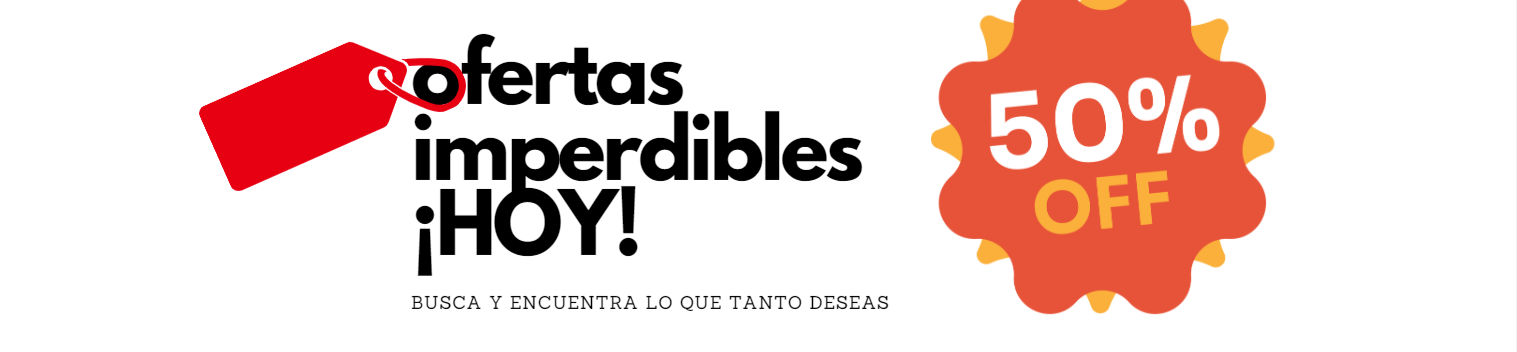
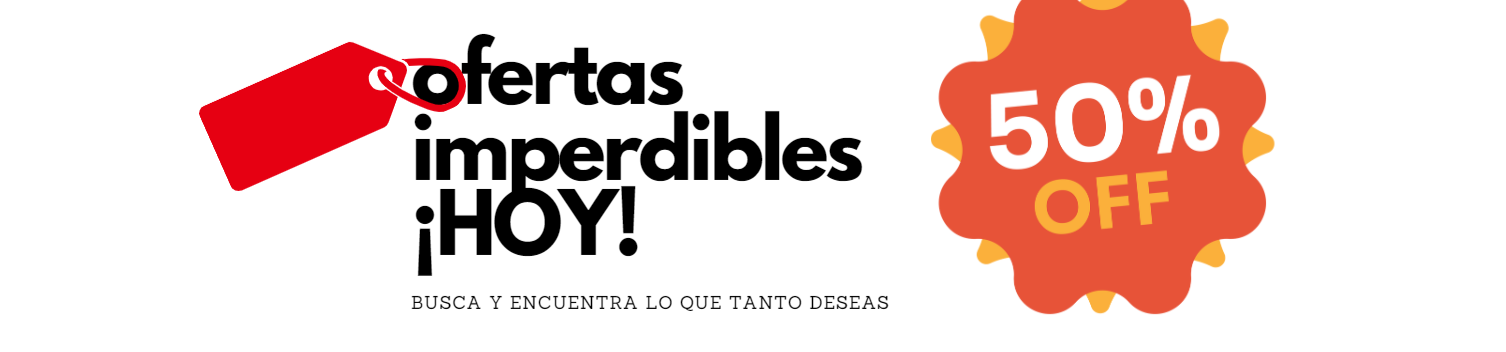
modified html: companies, products and home

diff --git a/frontend/src/app/componentes/carousel/carousel.component.html b/frontend/src/app/componentes/carousel/carousel.component.html
@@ -1,79 +1,1 @@
-  <!-- Carousel indicators -->
-  <div class="absolute bottom-0 left-0 right-0 z-[2] mx-[15%] mb-4 flex list-none justify-center p-0"
-    data-twe-carousel-indicators>
-    <button type="button" data-twe-target="#carouselExampleCaptions" data-twe-slide-to="0" data-twe-carousel-active
-      class="mx-[3px] box-content h-[3px] w-[30px] flex-initial cursor-pointer border-0 border-y-[10px] border-solid border-transparent bg-white bg-clip-padding p-0 -indent-[999px] opacity-50 transition-opacity duration-[600ms] ease-[cubic-bezier(0.25,0.1,0.25,1.0)] motion-reduce:transition-none"
-      aria-current="true" aria-label="Slide 1"></button>
-    <button type="button" data-twe-target="#carouselExampleCaptions" data-twe-slide-to="1"
-      class="mx-[3px] box-content h-[3px] w-[30px] flex-initial cursor-pointer border-0 border-y-[10px] border-solid border-transparent bg-white bg-clip-padding p-0 -indent-[999px] opacity-50 transition-opacity duration-[600ms] ease-[cubic-bezier(0.25,0.1,0.25,1.0)] motion-reduce:transition-none"
-      aria-label="Slide 2"></button>
-    <button type="button" data-twe-target="#carouselExampleCaptions" data-twe-slide-to="2"
-      class="mx-[3px] box-content h-[3px] w-[30px] flex-initial cursor-pointer border-0 border-y-[10px] border-solid border-transparent bg-white bg-clip-padding p-0 -indent-[999px] opacity-50 transition-opacity duration-[600ms] ease-[cubic-bezier(0.25,0.1,0.25,1.0)] motion-reduce:transition-none"
-      aria-label="Slide 3"></button>
-  </div>
-
-  <!--Carousel items-->
-  <div class="relative w-full overflow-hidden after:clear-both after:block after:content-['']">
-    <!--First item-->
-    <div
-      class="relative float-left -mr-[100%] w-full transition-transform duration-[600ms] ease-in-out motion-reduce:transition-none"
-      data-twe-carousel-active data-twe-carousel-item style="backface-visibility: hidden">
-      <img src="../../../assets/img/carrusel1.png" class="block w-full" alt="..." />
-      <div class="absolute inset-x-[15%] bottom-5 hidden py-5 text-center text-white md:block">
-        <!-- <p>
-          Some representative placeholder content for the first slide.
-        </p> -->
-      </div>
-    </div>
-    <!--Second item-->
-    <div
-      class="relative float-left -mr-[100%] hidden w-full transition-transform duration-[600ms] ease-in-out motion-reduce:transition-none"
-      data-twe-carousel-item style="backface-visibility: hidden">
-      <img src="../../../assets/img/logoAzul.png" class="block w-full" alt="..." />
-      <div class="absolute inset-x-[15%] bottom-5 hidden py-5 text-center text-white md:block">
-        <h5 class="text-xl">Second slide label</h5>
-        <p>
-          Some representative placeholder content for the second slide.
-        </p>
-      </div>
-    </div>
-    <!--Third item-->
-    <div
-      class="relative float-left -mr-[100%] hidden w-full transition-transform duration-[600ms] ease-in-out motion-reduce:transition-none"
-      data-twe-carousel-item style="backface-visibility: hidden">
-      <img src="https://tecdn.b-cdn.net/img/Photos/Slides/img%20(23).jpg" class="block w-full" alt="..." />
-      <div class="absolute inset-x-[15%] bottom-5 hidden py-5 text-center text-white md:block">
-        <h5 class="text-xl">Third slide label</h5>
-        <p>
-          Some representative placeholder content for the third slide.
-        </p>
-      </div>
-    </div>
-  </div>
-
-  <!--Carousel controls - prev item-->
-  <button
-    class="absolute bottom-0 left-0 top-0 z-[1] flex w-[15%] items-center justify-center border-0 bg-none p-0 text-center text-white opacity-50 transition-opacity duration-150 ease-[cubic-bezier(0.25,0.1,0.25,1.0)] hover:text-white hover:no-underline hover:opacity-90 hover:outline-none focus:text-white focus:no-underline focus:opacity-90 focus:outline-none motion-reduce:transition-none"
-    type="button" data-twe-target="#carouselExampleCaptions" data-twe-slide="prev">
-    <span class="inline-block h-8 w-8">
-      <svg xmlns="http://www.w3.org/2000/svg" fill="none" viewBox="0 0 24 24" stroke-width="1.5" stroke="currentColor"
-        class="h-6 w-6">
-        <path stroke-linecap="round" stroke-linejoin="round" d="M15.75 19.5L8.25 12l7.5-7.5" />
-      </svg>
-    </span>
-    <span
-      class="!absolute !-m-px !h-px !w-px !overflow-hidden !whitespace-nowrap !border-0 !p-0 ![clip:rect(0,0,0,0)]">Previous</span>
-  </button>
-  <!--Carousel controls - next item-->
-  <!-- <button
-    class="absolute bottom-0 right-0 top-0 z-[1] flex w-[15%] items-center justify-center border-0 bg-none p-0 text-center text-white opacity-50 transition-opacity duration-150 ease-[cubic-bezier(0.25,0.1,0.25,1.0)] hover:text-white hover:no-underline hover:opacity-90 hover:outline-none focus:text-white focus:no-underline focus:opacity-90 focus:outline-none motion-reduce:transition-none"
-    type="button" data-twe-target="#carouselExampleCaptions" data-twe-slide="next">
-    <span class="inline-block h-8 w-8">
-      <svg xmlns="http://www.w3.org/2000/svg" fill="none" viewBox="0 0 24 24" stroke-width="1.5" stroke="currentColor"
-        class="h-6 w-6">
-        <path stroke-linecap="round" stroke-linejoin="round" d="M8.25 4.5l7.5 7.5-7.5 7.5" />
-      </svg>
-    </span>
-    <span
-      class="!absolute !-m-px !h-px !w-px !overflow-hidden !whitespace-nowrap !border-0 !p-0 ![clip:rect(0,0,0,0)]">Next</span>
-  </button> -->
+<img class="w-full h-auto object-contain  bg-white" src="../../../assets/img/carrusel1.png" alt="">

diff --git a/frontend/src/app/componentes/header/header.component.html b/frontend/src/app/componentes/header/header.component.html
@@ -1,41 +1,50 @@
-<div class="relative w-full">
-  <div *ngIf="headerService.isShowing()| async" class="w-full h-12 flex justify-around items-center">
+<div class="relative w-full px-4">
+  <div *ngIf="headerService.isShowing()| async" class="w-full h-12 flex justify-evenly items-center">
     <div class="flex relative items-center">
       <img (click)="headerService.goBack()" [@showArrow]="show? 'show' : 'hide' " class="size-6 absolute -ml-1"
         src="../../../assets/icons/left-arrow-svgrepo-com.svg" alt="">
       <a href="/">
-        <img [@canGoBack]="itCan? 'can' : 'cant' " class="icon" src="../../../assets/icons/android-chrome-192x192.png"
+        <img [@canGoBack]="itCan? 'can' : 'cant' " class="icon object-contain size-10" src="../../../assets/icons/android-chrome-192x192.png"
           alt="">
       </a>
     </div>
-      <!-- SEARCH -->
-    <div class="inputWrapper relative w-3/5 flex items-center ">
-      <input class="bg-slate-200 h-2/3 w-full border rounded-2xl p-2 text-sm overflow-auto" id="inputHeader"
-        type="search" placeholder="Busca productos, tiendas y más..." (input)="actualizarFiltro($event)">
+    
+    <!-- SEARCH -->
+    <div class="inputWrapper relative w-3/6 2xl:w-4/6 flex items-center ">
+      <input class="bg-slate-200 w-full border-2 rounded-2xl py-2 px-4 ml-2 text-sm overflow-auto outline-none border-blue-500" id="inputHeader"
+      type="search" placeholder="Buscar" (input)="actualizarFiltro($event)">
     </div>
-          <!-- product link -->
-      <a class="mx-4" href="products">Productos</a>
-    <!-- BOTONES DE LOGIN -->
-    <div *ngIf="!(auth.isLoggedIn() | async)" class="hidden sm:block flex justify-around" id="signup_signin">
-      <a class="mx-4" href="login">Inicio de sesion</a>
-      <a class="mx-4" href="signin">Registro</a>
+    
+    <div class="anclas py-3 flex flex-row items-center justify-end md:justify-around w-full max-md:w-3/6 lg:w-2/6">
+      
+      <!-- product link -->
+      <div class="sections flex flex-row items-center justify-around w-5/6 md:w-2/4 md:ml-2">
+        <a class="hover:scale-110 ease-in-out duration-150" href="products">Productos</a>
+        <p class="text-xl pt-2 text-blue-500 max-sm:mx-3">|</p>
+        <a class="hover:scale-110 ease-in-out duration-150" href="companies">Emprendedores</a>
+      </div>
+      <!-- BOTONES DE LOGIN -->
+      <div *ngIf="!(auth.isLoggedIn() | async)" class="max-sm:hidden sm:block flex  max-md:w4/6 items-center " id="signup_signin">
+        <a class="mx-2 lg:mx-10 border py-2 px-1 rounded-md bg-blue-500 hover:bg-blue-950 text-white hover:scale-105 ease-in-out duration-150" href="login">Inicia sesion</a>
+        <a class="hover:scale-105 ease-in-out duration-150" href="signin">Registro</a>
+      </div>
     </div>
-
+      
     <!-- USER PROFILE -->
     <div *ngIf="(auth.isLoggedIn() | async) && (auth.isClient() | async)" class="hidden sm:block flex justify-around" id="signup_signin">
-      <button class="blankButton" (click)="navigateToUserProfile()">Perfil</button>
+      <button class="blankButton hover:scale-105 ease-in-out duration-150" (click)="navigateToUserProfile()">Perfil</button>
     </div>
     
     <div *ngIf="(auth.isLoggedIn() | async) && (auth.isCompany() | async)  && !isPerfilCompanyComponent()" class="hidden sm:block flex justify-around" id="signup_signin">
-      <button class="blankButton" (click)="navigateToCompanyProfile()">Perfil</button>
+      <button class="blankButton hover:scale-105 ease-in-out duration-150" (click)="navigateToCompanyProfile()">Perfil</button>
     </div>
     <div *ngIf="(auth.isLoggedIn() | async) && (auth.isCompany() | async)  && isPerfilCompanyComponent()" class="hidden sm:block flex justify-around" id="signup_signin">
-      <button class="blankButton" (click)="navigateToCompanyHome()">Principal</button>
+      <button class="blankButton hover:scale-105 ease-in-out duration-150" (click)="navigateToCompanyHome()">Principal</button>
     </div>
     
     <!-- SING OUT BUTTON -->
     <div *ngIf="(auth.isLoggedIn() | async)" class="hidden sm:block flex justify-around" id="signup_signin">
-      <button class="blankButton" *ngIf="auth.isLoggedIn()|async"  (click)="auth.logout()">salir</button>
+      <button class="blankButton hover:scale-105 ease-in-out duration-150" *ngIf="auth.isLoggedIn()|async"  (click)="auth.logout()">salir</button>
 
     
     </div>

diff --git a/frontend/src/app/componentes/detalle-company/detalle-company.component.html b/frontend/src/app/componentes/detalle-company/detalle-company.component.html
@@ -1,33 +1,45 @@
-<div class="h-full w-full">
-    <div *ngIf="company && user" class="infoUser w-full h-72 my-4 bg-[#d2d2d2] flex items-start flex-row md:text-center">
-        <div class="justify-center w-2/5 h-full p-2 flex items-center flex-row  bg-white">
-            <div class="flex flex-col w-3/5 h-full items-center justify-evenly">
-                <app-foto-de-perfil [user]="user"></app-foto-de-perfil>
-                <div class="flex justify-center">
-                    <!-- Redes sociales -->
-                    <a class="btn btn-floating m-1 text-black" href="#!" role="button"><i
-                            class="bi bi-instagram text-black text-2xl"></i></a>
-                    <a class="btn btn-floating m-1 text-black" href="#!" role="button"><i
-                            class="bi bi-twitter text-black text-2xl"></i></a>
-                    <a class="btn btn-floating m-1 text-black" href="#!" role="button"><i
-                            class="bi bi-whatsapp text-black text-2xl"></i></a>
+<div class="h-full w-full overflow-hidden">
+    <div *ngIf="company && user"
+        class="infoUser w-auto h-auto my-4 bg-[#d2d2d2] flex items-start flex-col md:text-center">
+
+        <div class="father flex flex-col lg:flex-row h-96">
+
+            <div
+                class=" w-full lg:w-2/5 h-full p-2 flex items-center justify-around flex-col lg:flex-row bg-white shadow-sm">
+                <!-- top -->
+                <div class="flex flex-col w-full lg:w-2/6 h-full items-center justify-evenly">
+
+                    <app-foto-de-perfil [user]="user"></app-foto-de-perfil>
+                    <!-- nameVenture -->
+                    <h1 class="text-center justify-center my-3 text-black">{{company.nameEmprendimiento}}</h1>
+                    <!-- socialMedia -->
+                    <div class="flex justify-center">
+                        <a class="btn btn-floating m-1 text-black" href="#!" role="button"><i
+                                class="bi bi-instagram text-black text-2xl"></i></a>
+                        <a class="btn btn-floating m-1 text-black" href="#!" role="button"><i
+                                class="bi bi-twitter text-black text-2xl"></i></a>
+                        <a class="btn btn-floating m-1 text-black" href="#!" role="button"><i
+                                class="bi bi-whatsapp text-black text-2xl"></i></a>
+                    </div>
                 </div>
-            </div>
-            <div class="flex flex-col w-full px-4 h-full justify-evenly">
-                <h1 class="text-center flex items-center justify-center m-0 text-black">{{company.nameEmprendimiento}}</h1>
-                <div class="description d-flex justify-center text-center flex-col items-center text-black">
-                    <h3 class="font-bold"></h3>
-                    <p class="w-full">{{company.description}}</p>
+
+                <!-- description -->
+                <div class="description w-4/6 text-center lg:w-3/6 flex-col items-center text-black my-2">
+                    <p class="w-full text-lg">{{company.description}}</p>
                 </div>
+
             </div>
-        </div>
-        <div class="w-3/5 h-full">
-            <app-loading-image class="" [src]="company.img" [srcPreload]="'https://fakeimg.pl/251x251?text=+'"
-                [srcError]="'../../../assets/img/logoBlanco.png'" [rounded]="'object-contain brightness-50'">
-            </app-loading-image>
+            <!-- banner -->
+            <div class="w-full h-full lg:w-4/6 flex items-center justify-center border-dotted">
+                <app-loading-image class="" [src]="company.img" [srcPreload]="'https://fakeimg.pl/251x251?text=+'"
+                    [srcError]="'../../../assets/img/logoBlanco.png'"
+                    [rounded]="'object-center object-cover  brightness-50'">
+                </app-loading-image>
+            </div>
         </div>
     </div>
 
+    <!-- productsSection -->
     <div class="productos w-full h-auto overflow-x-visible lg:flex flex-wrap justify-evenly">
 
         <div class="w-full px-2 my-2 flex flex-wrap gap-4 md:w-2/4 lg:w-1/4" *ngFor="let product of listProducts">

diff --git a/frontend/src/app/componentes/companies/companies.component.html b/frontend/src/app/componentes/companies/companies.component.html
@@ -1,24 +1,30 @@
-<div class="w-full h-full flex flex-wrap gap-4 justify-evenly">
-    <div class="companies size-48 z-0  py-4 flex flex-wrap flex-col" *ngFor="let company of filteredCompanies">
-        <div (click)="onClickCompany(company.email)" class="img-wrapper z-0  size-48 relative cursor-pointer z-5 companyPanel  rounded-lg   bg-gray-100 flex flex-col ">
-            <div
-                class="imageContainer z-0 rounded-t-lg bottom-10 overflow-hidden z-2 flex items-center justify-center size-48">
-                <div class="imgg size-48     z-0">
-                    <app-loading-image class="image h-full" [src]="company.User.profile_image"
-                        [srcPreload]="'../../../assets/img/251x251.png'"
-                        [srcError]="'../../../assets/img/user_image_holder.jpeg'"
-                        [rounded]="'object-cover rounded-t-lg'">
-                    </app-loading-image>
+<div class="container flex items-center justify-center w-full">
+
+    <div
+        class="w-full h-full grid grid-cols-2 md:grid-cols-3 lg:grid-cols-4 md:px-5 gap-3 md:gap-7 lg:w-5/6">
+        <div class="companies size-48 z-0  py-4 flex flex-wrap flex-col" *ngFor="let company of filteredCompanies">
+
+            <div (click)="onClickCompany(company.email)"
+                class="img-wrapper z-0  size-48 relative cursor-pointer z-5 companyPanel  rounded-lg   bg-gray-100 flex flex-col ">
+                <div
+                    class="imageContainer z-0 rounded-t-lg bottom-10 overflow-hidden z-2 flex items-center justify-center size-48">
+                    <div class="imgg size-48 z-0">
+                        <app-loading-image class="image h-full" [src]="company.User.profile_image"
+                            [srcPreload]="'../../../assets/img/251x251.png'"
+                            [srcError]="'../../../assets/img/user_image_holder.jpeg'"
+                            [rounded]="'object-cover rounded-t-lg'">
+                        </app-loading-image>
+                    </div>
+                    <div
+                        class="description w-full z-0  absolute box-border p-1 text-white flex items-center justify-center text-center">
+                        {{company.description}}
+                    </div>
                 </div>
                 <div
-                    class="description w-full z-0  absolute box-border p-1 text-white flex items-center justify-center text-center">
-                    {{company.description}}
-                </div>
-            </div>
-            <div
-                class="nameWrapper shadow z-0 select-none rounded-b-lg bg-white bottom-0 w-full z-3 text-lg text-center p-1">
-                <div class="nameE overflow-hidden z-0 ">
-                    {{company.nameEmprendimiento}}
+                    class="nameWrapper shadow z-0 select-none rounded-b-lg bg-white bottom-0 w-full z-3 text-lg text-center p-1">
+                    <div class="nameE overflow-hidden z-0 ">
+                        {{company.nameEmprendimiento}}
+                    </div>
                 </div>
             </div>
         </div>

diff --git a/frontend/src/app/componentes/productos/productos.component.html b/frontend/src/app/componentes/productos/productos.component.html
@@ -1,5 +1,6 @@
+<app-carousel></app-carousel>
 <!-- filtro de categorias -->
-<div class="h-auto mt-4  py-2 flex items-center justify-center">
+<div class=" flex items-start justify-center">
   <!-- Lista de categorías -->
   <ul class="grid grid-cols-2  md:grid-cols-4 lg:w-3/5 justify-evenly text-center gap-2 gap-x-4 ">
     <li class=" max-sm:w-1/2 cursor-pointer">
@@ -47,10 +48,7 @@
   </ul>
 </div>
 <!-- filtro de categorias -->
-<div id="carouselExampleCaptions" class="relative" data-twe-carousel-init data-twe-ride="carousel">
-  
-  
-
+<!-- <div id="carouselExampleCaptions" class="relative" data-twe-carousel-init data-twe-ride="carousel"> -->
 
 <!-- ordenar por -->
 <div class="flex flex-wrap p-4 w-[45%] h-[24%] my-2 gap-2 float-end">
@@ -99,10 +97,8 @@
     <!-- Utiliza filteredProducts en lugar de listProducts -->
 
     <div
-      class="card shadow p-3 items-center rounded flex flex-row w-full cursor-pointer hover:scale-105 ease-in-out duration-150">
+      class="card shadow p-3 border-none items-center rounded flex flex-row w-full cursor-pointer hover:scale-105 ease-in-out duration-150">
       <div (click)="mostrarDetalle(product.id)" class="size-40">
-        <!-- <img [src]="product.image" class="object-fill overflow-hidden size-full lg:w-full" alt="... "
-          (click)="mostrarDetalle(product.id)"> -->
         <app-loading-image [src]="product.image" [srcPreload] [rounded]="'object-cover'"></app-loading-image>
       </div>
       <div class="size-40 w-2/3 mx-2 px-2 flex flex-col justify-between lg:w-3/6">

diff --git a/frontend/src/app/app.component.html b/frontend/src/app/app.component.html
@@ -1,7 +1,7 @@
 <div class="relative h-full flex flex-col justify-between">
     <app-header></app-header>
-    <router-outlet class="h-dvh mt-20 "></router-outlet>
+    <router-outlet class="m-0"></router-outlet>
     <div class="my-20"></div>
     <app-nav-bar class="fixed bottom-0 inset-x-0 border-t border-[#427DD7] z-40"></app-nav-bar>
-    <app-footer class="footer mt z-0" ></app-footer>
+    <app-footer class="footer mt z-0"></app-footer>
 </div>

diff --git a/frontend/src/app/componentes/home/home.component.html b/frontend/src/app/componentes/home/home.component.html
@@ -1,6 +1,4 @@
-<app-carousel></app-carousel>
 <button class="absolute right-4 bottom-4 hover:bg-transparent" (click)="openModal()"><img class="size-8" src="../../../assets/icons/help_buttom.svg" alt=""></button>
 <app-chatbot class="" #chatbot></app-chatbot>
 <app-companies></app-companies>
-<!-- <app-productos></app-productos> -->
 <app-chatbot class="z-50" #chatbot></app-chatbot>

diff --git a/frontend/src/app/componentes/companies/companies.component.css b/frontend/src/app/componentes/companies/companies.component.css
@@ -12,7 +12,7 @@
 }
 .img-wrapper:hover .nameWrapper{
     filter: brightness(.5);
-    transition: all .1s ease-in-out;
+    transition: all .1.5s ease-in-out;
     opacity: 0;
 }
 .img-wrapper:hover .description{

diff --git a/frontend/src/app/componentes/productos/productos.component.css b/frontend/src/app/componentes/productos/productos.component.css
@@ -1,5 +1,4 @@
 *{
-    
     box-sizing: border-box;
     padding: 0;
     margin: 0;
@@ -7,8 +6,7 @@
 }
  a{
     text-decoration: none;
-    width: 190px;
-    
+    width: 190px;  
  }
 
  

diff --git a/frontend/src/app/componentes/carousel/carousel.component.css b/frontend/src/app/componentes/carousel/carousel.component.css
@@ -1,0 +1,4 @@
+*{
+    margin: 0;
+    padding: 0;
+}
